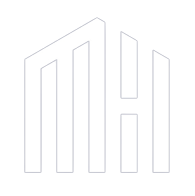
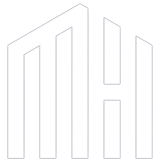
new commit

diff --git a/src/components/ProjectComponent.vue b/src/components/ProjectComponent.vue
@@ -33,7 +33,7 @@ export default {
         {
           id: 3,
           name: "Real Estate",
-          image: "https://github.com/0xjoshva/realestate/blob/main/assets/sterlinglogoonly.png?raw=true",
+          image: "https://github.com/0xjoshva/newportfolio-vue/blob/main/src/assets/newreal.png?raw=true",
         }
         ,
         {
